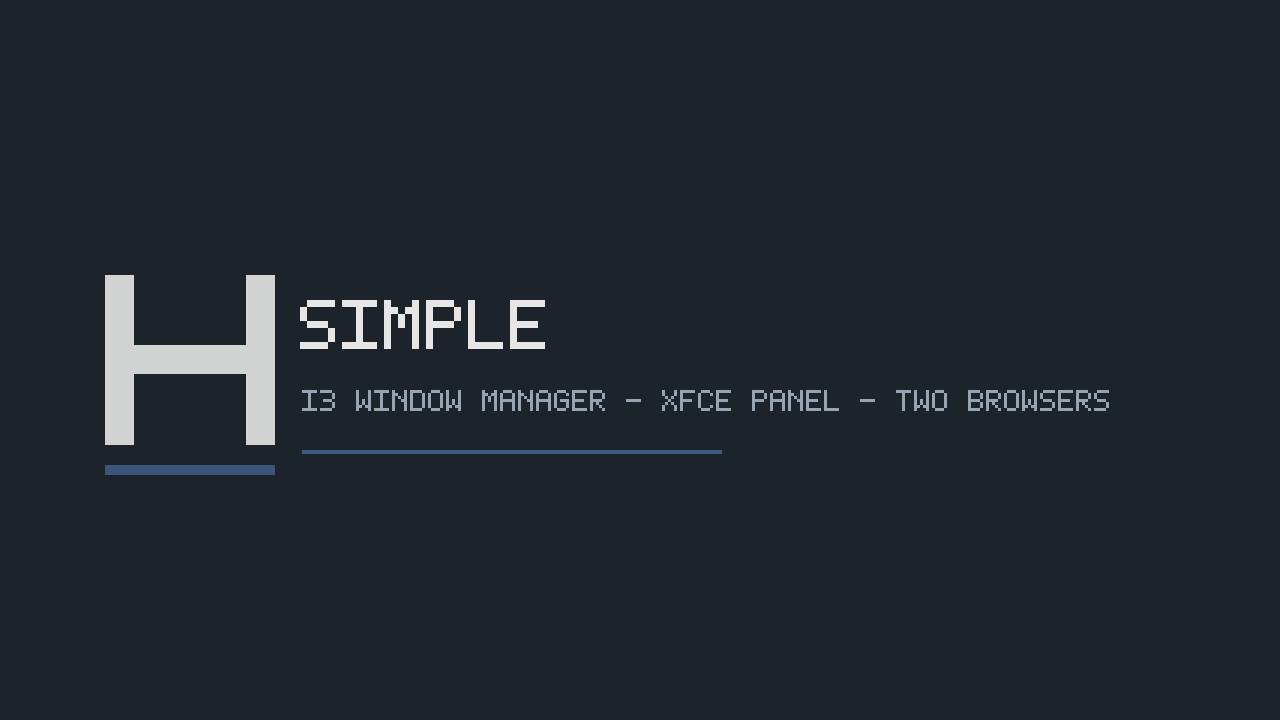
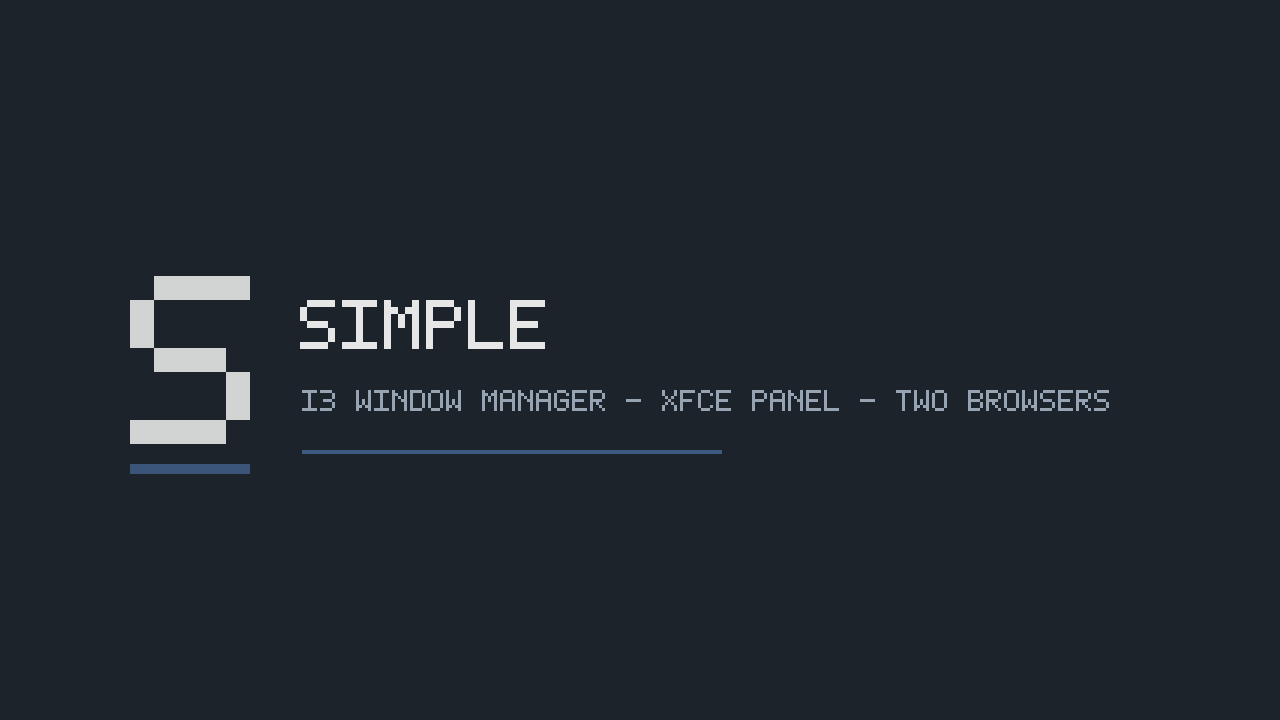
branding: mark the installer and boot screens with the SMD initial

Changed region(s): [[0.0625, 0.3667, 0.2188, 0.6722]]

diff --git a/tools/make-assets.py b/tools/make-assets.py
@@ -181,16 +181,16 @@ class Canvas:
 
     # -- logo -------------------------------------------------------------
     def mark(self, centre_x, centre_y, size, colour, opacity=1.0, underline=True):
-        """The SMD Linux mark: a compact 'H' with an accent rule."""
-        bar = max(2, int(round(size * 0.17)))
-        left = centre_x - size / 2
-        top = centre_y - size / 2
-        self.rect(left, top, bar, size, colour, opacity)
-        self.rect(left + size - bar, top, bar, size, colour, opacity)
-        self.rect(left + bar, centre_y - bar / 2, size - 2 * bar, bar, colour, opacity)
+        """The SMD Linux mark: the initial of the name with an accent rule."""
+        scale = max(1, int(round(size / 7.0)))
+        height = 7 * scale
+        width = self.text_width("S", scale)
+        left = int(round(centre_x - width / 2.0))
+        top = int(round(centre_y - height / 2.0))
+        self.text(left, top, "S", scale, colour, opacity)
         if underline:
-            rule_y = top + size + max(2, int(round(size * 0.12)))
-            self.rect(left, rule_y, size, max(2, int(round(size * 0.06))),
+            rule_y = top + height + max(2, int(round(size * 0.12)))
+            self.rect(left, rule_y, width, max(2, int(round(size * 0.06))),
                       ACCENT, opacity)
 
     # -- output -----------------------------------------------------------
